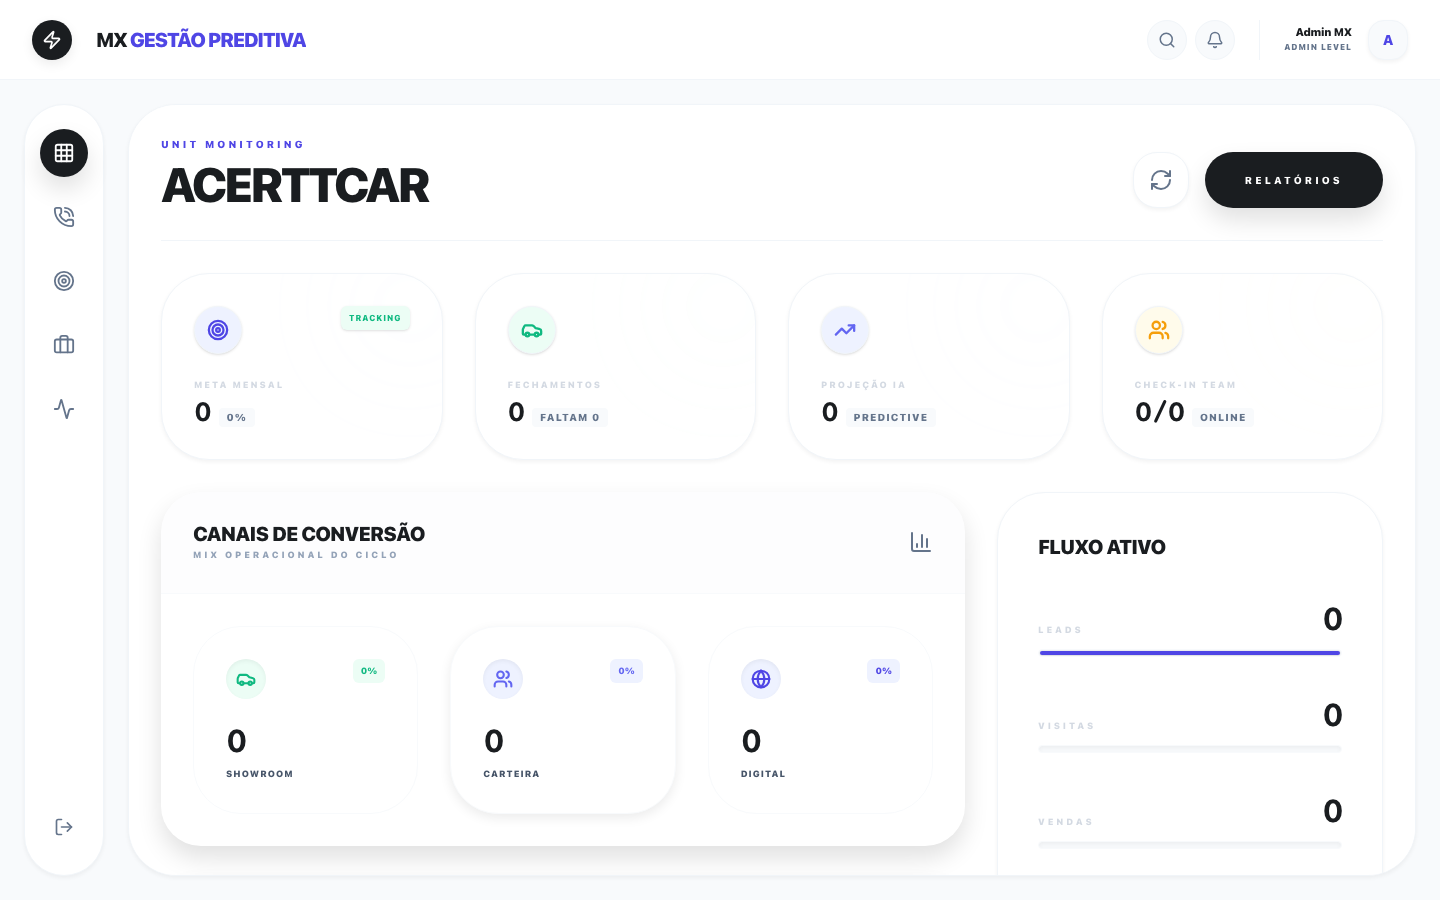
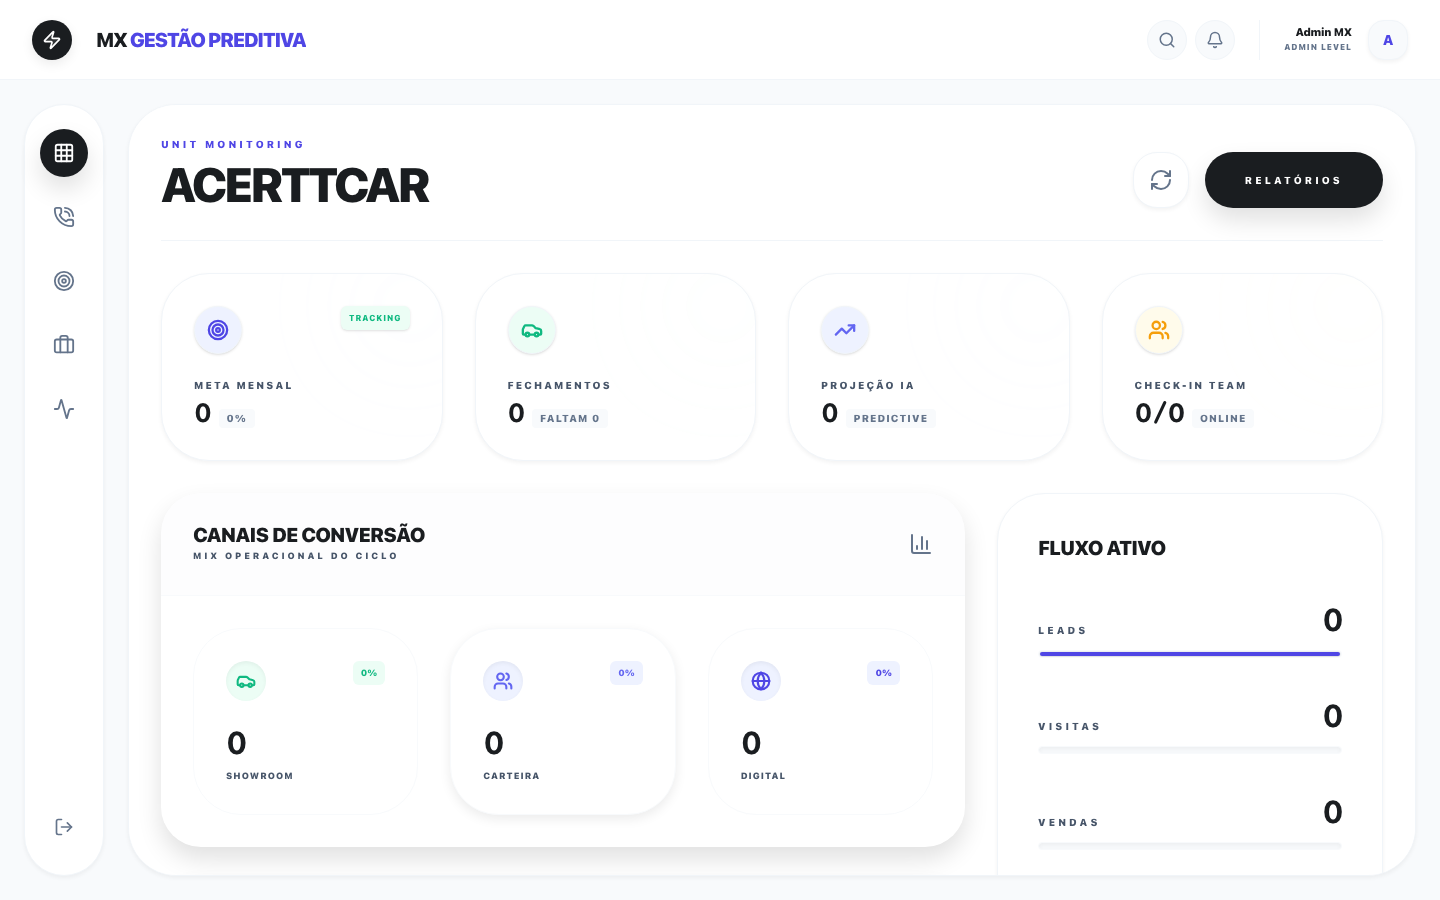
fix: ranking empty state and label contrast enhancements

diff --git a/src/pages/Ranking.tsx b/src/pages/Ranking.tsx
@@ -2,7 +2,7 @@ import { useAuth } from '@/hooks/useAuth'
 import { useRanking } from '@/hooks/useRanking'
 import { motion, AnimatePresence } from 'motion/react'
 import { 
-    Trophy, TrendingUp, Target, Medal, Star, Crown, ChevronRight, User, Award, Sparkles, Zap, Flame, RefreshCw, ArrowUpRight
+    Trophy, Medal, Star, Crown, ChevronRight, User, Award, Zap, RefreshCw, TrendingUp, Target, Flame
 } from 'lucide-react'
 import { useState, useMemo, useCallback } from 'react'
 import { Link } from 'react-router-dom'
@@ -20,136 +20,85 @@ export default function Ranking() {
     }, [refetch])
 
     const sortedRanking = useMemo(() => {
-        return [...ranking].sort((a, b) => {
+        return [...(ranking || [])].sort((a, b) => {
             if (b.vnd_total !== a.vnd_total) return b.vnd_total - a.vnd_total
-            if (b.visitas !== a.visitas) return b.visitas - a.visitas
-            return b.leads - a.leads
+            return b.visitas - a.visitas
         })
     }, [ranking])
 
-    if (loading) return (
-        <div className="flex flex-col items-center justify-center min-h-[60vh] w-full h-full bg-surface-alt/50 backdrop-blur-xl">
-            <div className="w-16 h-16 border-4 border-brand-primary/10 border-t-brand-primary rounded-full animate-spin shadow-mx-lg"></div>
-            <p className="mt-mx-md mx-text-caption animate-pulse">Computando Arena de Elite...</p>
-        </div>
-    )
+    if (loading) return <div className="h-full w-full flex items-center justify-center bg-white"><RefreshCw className="animate-spin text-brand-primary" /></div>
 
     return (
-        <div className="w-full h-full flex flex-col gap-mx-lg overflow-y-auto no-scrollbar relative p-mx-md sm:p-mx-lg md:p-mx-xl">
+        <div className="w-full h-full flex flex-col gap-mx-lg p-mx-lg overflow-y-auto no-scrollbar bg-white">
             {/* Header Area */}
-            <div className="flex flex-col lg:flex-row lg:items-center justify-between gap-mx-lg border-b border-border-default pb-mx-lg shrink-0">
-                <div className="flex flex-col gap-1">
-                    <div className="flex items-center gap-mx-xs">
-                        <div className="w-2 h-10 bg-status-warning rounded-full shadow-mx-md" />
-                        <h1 className="mx-heading-hero">Arena de Performance</h1>
-                    </div>
-                    <p className="mx-text-caption pl-mx-md opacity-60">Snapshot Nacional • Meritocracia em Tempo Real</p>
+            <div className="flex flex-col lg:flex-row lg:items-end justify-between gap-mx-lg border-b border-border-default pb-mx-lg shrink-0">
+                <div>
+                    <span className="mx-text-caption text-status-warning mb-2 block font-black tracking-[0.3em]">MERITOCRACIA REAL-TIME</span>
+                    <h1 className="text-4xl md:text-5xl font-black text-text-primary tracking-tighter uppercase leading-none">Arena de Performance</h1>
+                    <p className="text-sm font-bold text-text-secondary mt-4 uppercase tracking-wide">Snapshot Nacional do Cluster Hub</p>
                 </div>
 
                 <div className="flex items-center gap-mx-sm shrink-0">
-                    <button onClick={handleRefresh} className="w-12 h-12 rounded-mx-lg bg-white border border-border-default shadow-mx-sm flex items-center justify-center text-text-tertiary hover:text-text-primary transition-all">
-                        <RefreshCw size={20} className={cn(isRefetching && "animate-spin")} />
+                    <button onClick={handleRefresh} className="w-14 h-14 rounded-mx-lg bg-white border border-border-default shadow-mx-sm flex items-center justify-center text-text-tertiary hover:text-text-primary active:scale-95 transition-all">
+                        <RefreshCw size={24} className={cn(isRefetching && "animate-spin")} />
                     </button>
-                    <div className="flex items-center justify-center gap-3 rounded-full border border-border-default bg-white px-mx-md py-4 shadow-mx-sm">
-                        <Trophy size={18} className="text-status-warning" />
-                        <span className="mx-text-caption text-text-primary">{sortedRanking.length} Especialistas Ativos</span>
+                    <div className="flex items-center justify-center gap-3 rounded-full border border-border-default bg-white px-8 py-4 shadow-mx-sm">
+                        <Trophy size={20} className="text-status-warning" />
+                        <span className="text-[10px] font-black text-text-primary uppercase tracking-[0.2em]">{sortedRanking.length} Especialistas Ativos</span>
                     </div>
                 </div>
             </div>
 
-            <div className="grid gap-mx-md pb-mx-3xl">
-                <AnimatePresence mode="popLayout">
-                    {sortedRanking.map((r, i) => {
-                        const isMe = r.user_id === profile?.id
-                        const isTop3 = i < 3
-                        return (
-                            <motion.div
-                                key={r.user_id}
-                                layout
-                                initial={{ opacity: 0, x: -20 }}
-                                animate={{ opacity: 1, x: 0 }}
-                                transition={{ delay: i * 0.03 }}
-                                className={cn(
-                                    "p-mx-md sm:p-mx-lg flex flex-col lg:flex-row lg:items-center gap-mx-md lg:gap-mx-xl transition-all relative group overflow-hidden border rounded-mx-3xl",
-                                    isMe ? "border-brand-primary bg-brand-primary-surface shadow-mx-xl z-20 ring-4 ring-brand-primary/5" :
-                                    isTop3 ? "border-border-default bg-white hover:shadow-mx-xl hover:-translate-y-1" :
-                                    "border-border-subtle bg-white/50 hover:bg-white hover:shadow-mx-lg"
-                                )}
-                            >
-                                <div className="flex min-w-0 flex-1 flex-col gap-mx-md sm:flex-row sm:items-center lg:gap-mx-xl relative z-10">
-                                    {/* Position Indicator */}
-                                    <div className="relative flex flex-shrink-0 flex-col items-center justify-center sm:min-w-[120px]">
-                                        {i === 0 ? (
-                                            <div className="relative pt-4">
-                                                <div className="w-20 h-20 rounded-mx-lg bg-gradient-to-tr from-mx-amber-400 to-mx-amber-600 flex items-center justify-center shadow-mx-xl border-4 border-white transform -rotate-3 group-hover:rotate-0 transition-transform">
-                                                    <span className="text-3xl font-black text-white italic">1º</span>
-                                                </div>
-                                                <Crown size={32} className="absolute -top-4 left-1/2 -translate-x-1/2 text-status-warning fill-status-warning/20 animate-bounce" />
-                                            </div>
-                                        ) : (
-                                            <div className={cn(
-                                                "w-14 h-14 rounded-mx-md flex items-center justify-center font-black text-xl border transition-all",
-                                                isMe ? "bg-brand-secondary text-white border-transparent shadow-mx-lg" : "bg-mx-slate-50 text-mx-slate-200 border-border-default"
-                                            )}>
+            <div className="flex-1 min-h-0 pb-mx-xl">
+                {sortedRanking.length > 0 ? (
+                    <div className="grid gap-mx-md">
+                        <AnimatePresence mode="popLayout">
+                            {sortedRanking.map((r, i) => {
+                                const isMe = r.user_id === profile?.id
+                                const isTop3 = i < 3
+                                return (
+                                    <motion.div
+                                        key={r.user_id} layout
+                                        initial={{ opacity: 0, x: -20 }} animate={{ opacity: 1, x: 0 }} transition={{ delay: i * 0.03 }}
+                                        className={cn(
+                                            "p-mx-lg flex flex-col lg:flex-row lg:items-center gap-mx-lg transition-all relative overflow-hidden border rounded-mx-3xl",
+                                            isMe ? "border-brand-primary bg-brand-primary-surface shadow-mx-lg" : "bg-white border-border-subtle hover:shadow-mx-md"
+                                        )}
+                                    >
+                                        <div className="flex items-center gap-mx-xl flex-1 min-w-0">
+                                            <div className="w-14 h-14 rounded-mx-xl bg-mx-slate-50 border border-border-default flex items-center justify-center font-black text-2xl text-text-primary shadow-inner">
                                                 {i + 1}
                                             </div>
-                                        )}
-                                    </div>
-
-                                    {/* Performer Details */}
-                                    <div className="flex-1 min-w-0">
-                                        <div className="mb-mx-sm flex flex-col gap-mx-xs sm:flex-row sm:items-center">
-                                            <h3 className={cn("text-2xl font-black tracking-tight truncate", isMe ? "text-brand-primary" : "text-text-primary group-hover:text-brand-primary transition-colors")}>
-                                                {r.user_name}
-                                            </h3>
-                                            <div className="flex flex-wrap gap-2">
-                                                {isMe && <span className="bg-brand-primary text-white text-[8px] font-black uppercase tracking-[0.2em] px-3 py-1 rounded-full shadow-mx-md flex items-center gap-1.5"><Star size={10} fill="currentColor" /> Seu Perfil</span>}
-                                                {i === 0 && <span className="bg-status-warning text-white text-[8px] font-black uppercase tracking-[0.2em] px-3 py-1 rounded-full shadow-mx-md flex items-center gap-1.5"><Flame size={10} fill="currentColor" /> On Fire</span>}
+                                            <div className="min-w-0 flex-1">
+                                                <h3 className="text-2xl font-black text-text-primary tracking-tight uppercase truncate">{r.user_name}</h3>
+                                                <div className="flex items-center gap-mx-md mt-2">
+                                                    <span className="mx-text-caption !text-[8px] text-text-secondary">{r.leads} Leads</span>
+                                                    <div className="w-1 h-1 rounded-full bg-mx-slate-300" />
+                                                    <span className="mx-text-caption !text-[8px] text-text-secondary">{r.visitas} Visitas</span>
+                                                </div>
                                             </div>
                                         </div>
-
-                                        <div className="flex flex-wrap items-center gap-mx-sm">
-                                            <div className="flex items-center gap-2 bg-mx-slate-50 border border-border-default px-mx-sm py-1.5 rounded-mx-md mx-text-caption">
-                                                <Zap size={14} className="text-brand-primary" /> {r.leads} Leads
+                                        <div className="flex items-center gap-mx-xl border-t lg:border-t-0 lg:border-l border-border-subtle pt-mx-lg lg:pt-0 lg:pl-mx-xl">
+                                            <div className="text-right">
+                                                <p className="mx-text-caption !text-[8px] text-text-tertiary mb-1">UNIDADES</p>
+                                                <p className="text-4xl font-black text-text-primary font-mono-numbers leading-none">{r.vnd_total}</p>
                                             </div>
-                                            <div className="flex items-center gap-2 bg-mx-slate-50 border border-border-default px-mx-sm py-1.5 rounded-mx-md mx-text-caption">
-                                                <TrendingUp size={14} className="text-status-info" /> {r.agd_total} Agd
-                                            </div>
-                                            <div className="flex items-center gap-2 bg-mx-slate-50 border border-border-default px-mx-sm py-1.5 rounded-mx-md mx-text-caption">
-                                                <Target size={14} className="text-status-warning" /> {r.visitas} Visitas
-                                            </div>
+                                            <Link to={`/relatorios/performance-vendedores?id=${r.user_id}`} className="w-12 h-12 rounded-mx-lg bg-mx-slate-50 border border-border-default text-text-tertiary hover:bg-brand-secondary hover:text-white transition-all flex items-center justify-center shadow-sm">
+                                                <ChevronRight size={22} />
+                                            </Link>
                                         </div>
-                                    </div>
-                                </div>
-
-                                {/* Results Column */}
-                                <div className="flex w-full flex-col gap-mx-lg border-t border-border-subtle pt-mx-md sm:flex-row sm:items-center sm:justify-between lg:w-auto lg:border-l lg:border-t-0 lg:pl-mx-xl lg:pt-0 relative z-10">
-                                    <div className="text-left lg:text-right">
-                                        <p className="mx-text-caption opacity-60 mb-1">Sellout</p>
-                                        <p className={cn("text-5xl font-black tracking-tighter leading-none font-mono-numbers", isTop3 ? "text-text-primary" : "text-text-tertiary")}>{r.vnd_total}</p>
-                                        <p className="text-[8px] font-black uppercase text-text-tertiary mt-1">Unidades</p>
-                                    </div>
-
-                                    <div className="flex flex-col items-start sm:items-end min-w-[120px]">
-                                        <p className="mx-text-caption opacity-60 mb-2">Atingimento</p>
-                                        <div className="flex flex-col items-end gap-2 w-full">
-                                            <span className={cn("text-2xl font-black font-mono-numbers", r.atingimento >= 100 ? 'text-status-success' : 'text-status-warning')}>
-                                                {r.atingimento}%
-                                            </span>
-                                            <div className="w-full sm:w-24 h-1.5 bg-mx-slate-100 rounded-full overflow-hidden shadow-inner">
-                                                <motion.div initial={{ width: 0 }} animate={{ width: `${Math.min(r.atingimento, 100)}%` }} transition={{ duration: 1.5 }} className={cn("h-full rounded-full", r.atingimento >= 100 ? 'bg-status-success' : 'bg-status-warning')} />
-                                            </div>
-                                        </div>
-                                    </div>
-
-                                    <Link to={`/relatorios/performance-vendedores?id=${r.user_id}`} className="w-12 h-12 rounded-mx-lg bg-mx-slate-50 border border-border-default flex items-center justify-center text-text-tertiary hover:text-brand-primary hover:shadow-mx-md transition-all shrink-0">
-                                        <ChevronRight size={20} strokeWidth={3} />
-                                    </Link>
-                                </div>
-                            </motion.div>
-                        )
-                    })}
-                </AnimatePresence>
+                                    </motion.div>
+                                )
+                            })}
+                        </AnimatePresence>
+                    </div>
+                ) : (
+                    <div className="h-full min-h-[400px] flex flex-col items-center justify-center text-center p-mx-xl bg-mx-slate-50/20 border-2 border-dashed border-border-default rounded-[3rem]">
+                        <div className="w-24 h-24 rounded-mx-3xl bg-white shadow-mx-lg flex items-center justify-center mb-mx-lg"><Medal size={48} className="text-mx-slate-200" /></div>
+                        <h3 className="text-3xl font-black text-text-primary tracking-tighter uppercase mb-2">Arena em Aquecimento</h3>
+                        <p className="mx-text-caption text-text-secondary max-w-xs leading-relaxed uppercase font-black">Aguardando as primeiras conversões do ciclo para computar o ranking de elite.</p>
+                    </div>
+                )}
             </div>
         </div>
     )
